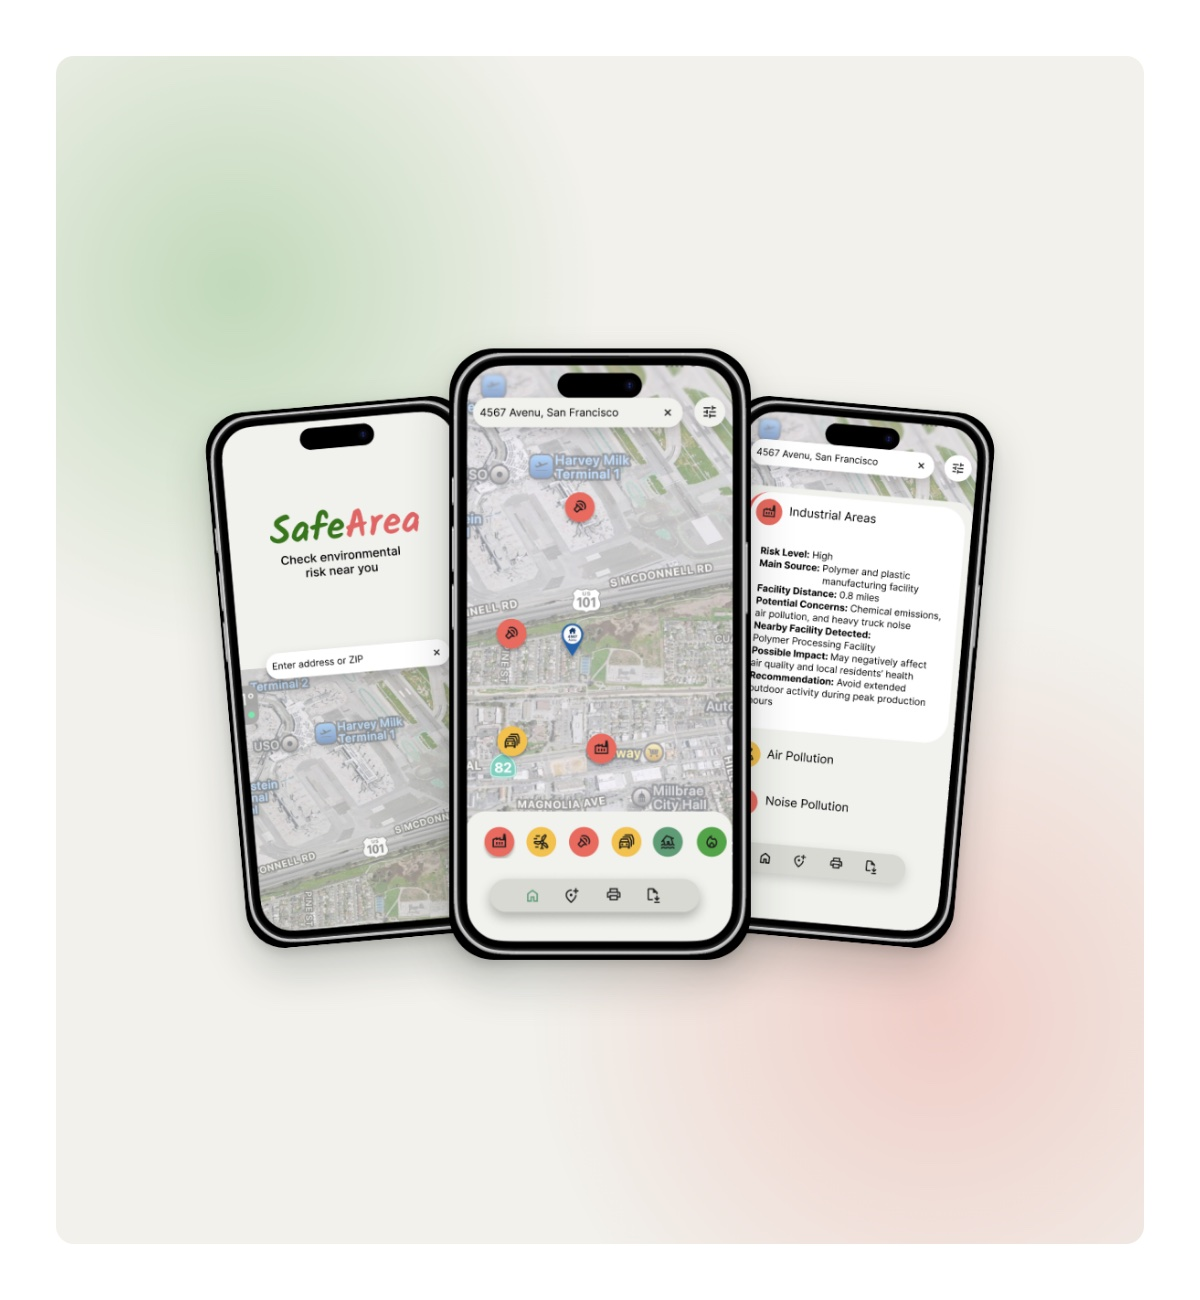
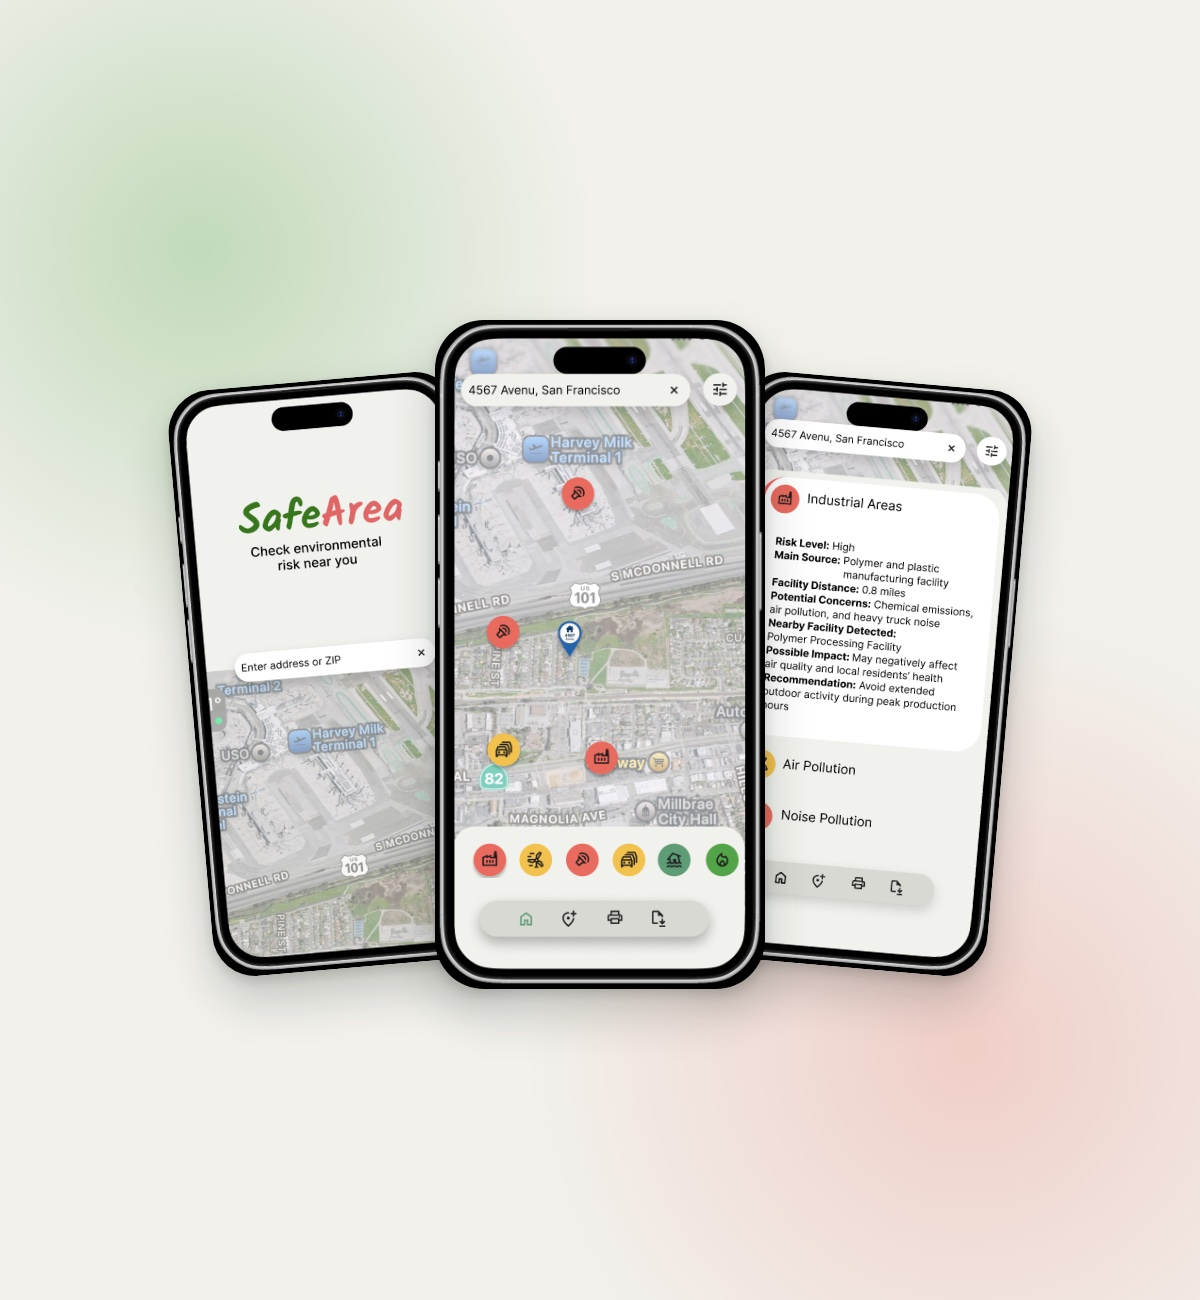
Big project tiles: images on the same tinted card as small tiles

Changed region(s): [[0.1233, 0.2462, 0.8633, 0.8], [0.5242, 0.5538, 1.0, 1.0], [0.0, 0.0, 0.4008, 0.4308]]

diff --git a/index.html b/index.html
@@ -13,7 +13,7 @@
 <link rel="preconnect" href="https://fonts.googleapis.com">
 <link rel="preconnect" href="https://fonts.gstatic.com" crossorigin>
 <link rel="stylesheet" href="https://fonts.googleapis.com/css2?family=Geist:wght@400;500;600;700&family=Geist+Mono:wght@400;500;600&display=swap">
-<link rel="stylesheet" href="css/style.css?v=20261113d">
+<link rel="stylesheet" href="css/style.css?v=20261113e">
 </head>
 <body>
 <a class="skip" href="#work">Skip to work</a>
@@ -95,7 +95,7 @@
           <h2>SafeArea App<span class="sr"> (opens in a new tab)</span></h2>
           <p>Research, personas and a tested Figma prototype for checking environmental risk at any address. <span class="go" aria-hidden="true">→</span></p>
         </div>
-        <img class="only-light" src="assets/img/safearea-phones-light.jpg" alt=""><img class="only-dark" src="assets/img/safearea-phones.jpg?v=3" alt="">
+        <img class="only-light" src="assets/img/safearea-phones-light.jpg?v=2" alt=""><img class="only-dark" src="assets/img/safearea-phones.jpg?v=3" alt="">
       </a>
 
       <a class="t pic proj p-gd" data-cat="ps ai" href="work/illustration.html" target="_blank" rel="noopener">

diff --git a/css/style.css b/css/style.css
@@ -330,3 +330,6 @@ pre.code code{background:none;border:0;padding:0;font-size:14px;overflow-wrap:no
   .proj-grid .t.proj img{flex:none;height:auto;width:auto;max-width:calc(100% - 48px);object-fit:contain}
 }
 .dev-view .grid > .proj-grid{grid-column:1/-1;height:auto;min-height:0}
+
+/* Big project tiles: every image sits on the same tinted card as the small tiles */
+.proj-grid .t.proj img,.proj-grid .t.proj.p-ms img,.proj-grid .t.proj.p-gd img{object-fit:contain;background:var(--tile-2);padding:18px;box-sizing:border-box;border-radius:12px}

diff --git a/work/carmat.html b/work/carmat.html
@@ -13,7 +13,7 @@
 <link rel="preconnect" href="https://fonts.googleapis.com">
 <link rel="preconnect" href="https://fonts.gstatic.com" crossorigin>
 <link rel="stylesheet" href="https://fonts.googleapis.com/css2?family=Geist:wght@400;500;600;700&family=Geist+Mono:wght@400;500;600&display=swap">
-<link rel="stylesheet" href="../css/style.css?v=20261113d">
+<link rel="stylesheet" href="../css/style.css?v=20261113e">
 </head>
 <body>
 <a class="skip" href="#main">Skip to content</a>

diff --git a/work/cooking-community.html b/work/cooking-community.html
@@ -13,7 +13,7 @@
 <link rel="preconnect" href="https://fonts.googleapis.com">
 <link rel="preconnect" href="https://fonts.gstatic.com" crossorigin>
 <link rel="stylesheet" href="https://fonts.googleapis.com/css2?family=Geist:wght@400;500;600;700&family=Geist+Mono:wght@400;500;600&display=swap">
-<link rel="stylesheet" href="../css/style.css?v=20261113d">
+<link rel="stylesheet" href="../css/style.css?v=20261113e">
 </head>
 <body>
 <a class="skip" href="#main">Skip to content</a>

diff --git a/work/illustration.html b/work/illustration.html
@@ -13,7 +13,7 @@
 <link rel="preconnect" href="https://fonts.googleapis.com">
 <link rel="preconnect" href="https://fonts.gstatic.com" crossorigin>
 <link rel="stylesheet" href="https://fonts.googleapis.com/css2?family=Geist:wght@400;500;600;700&family=Geist+Mono:wght@400;500;600&display=swap">
-<link rel="stylesheet" href="../css/style.css?v=20261113d">
+<link rel="stylesheet" href="../css/style.css?v=20261113e">
 </head>
 <body>
 <a class="skip" href="#main">Skip to content</a>

diff --git a/work/maker-space.html b/work/maker-space.html
@@ -13,7 +13,7 @@
 <link rel="preconnect" href="https://fonts.googleapis.com">
 <link rel="preconnect" href="https://fonts.gstatic.com" crossorigin>
 <link rel="stylesheet" href="https://fonts.googleapis.com/css2?family=Geist:wght@400;500;600;700&family=Geist+Mono:wght@400;500;600&display=swap">
-<link rel="stylesheet" href="../css/style.css?v=20261113d">
+<link rel="stylesheet" href="../css/style.css?v=20261113e">
 </head>
 <body>
 <a class="skip" href="#main">Skip to content</a>

diff --git a/work/safearea.html b/work/safearea.html
@@ -13,7 +13,7 @@
 <link rel="preconnect" href="https://fonts.googleapis.com">
 <link rel="preconnect" href="https://fonts.gstatic.com" crossorigin>
 <link rel="stylesheet" href="https://fonts.googleapis.com/css2?family=Geist:wght@400;500;600;700&family=Geist+Mono:wght@400;500;600&display=swap">
-<link rel="stylesheet" href="../css/style.css?v=20261113d">
+<link rel="stylesheet" href="../css/style.css?v=20261113e">
 </head>
 <body>
 <a class="skip" href="#main">Skip to content</a>
